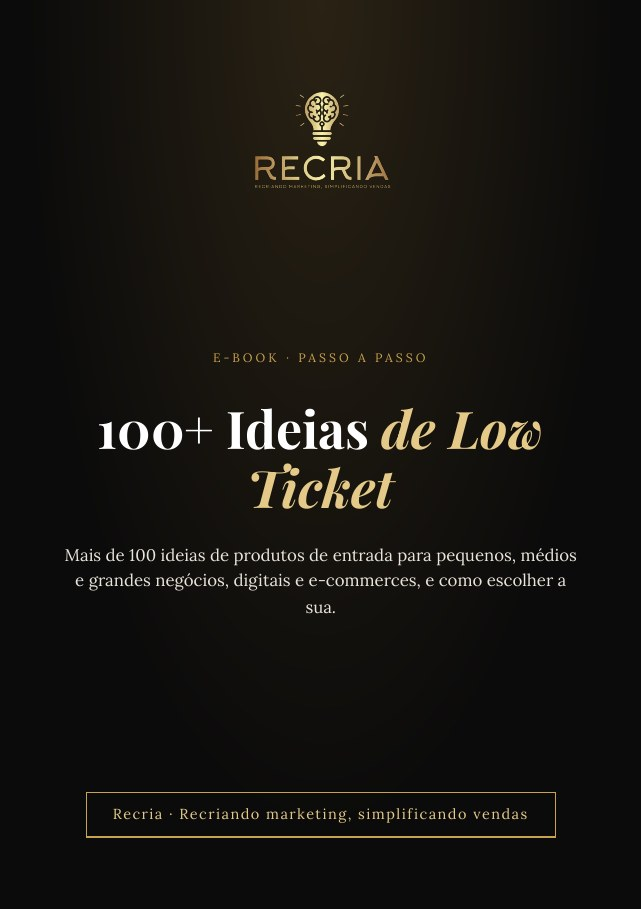
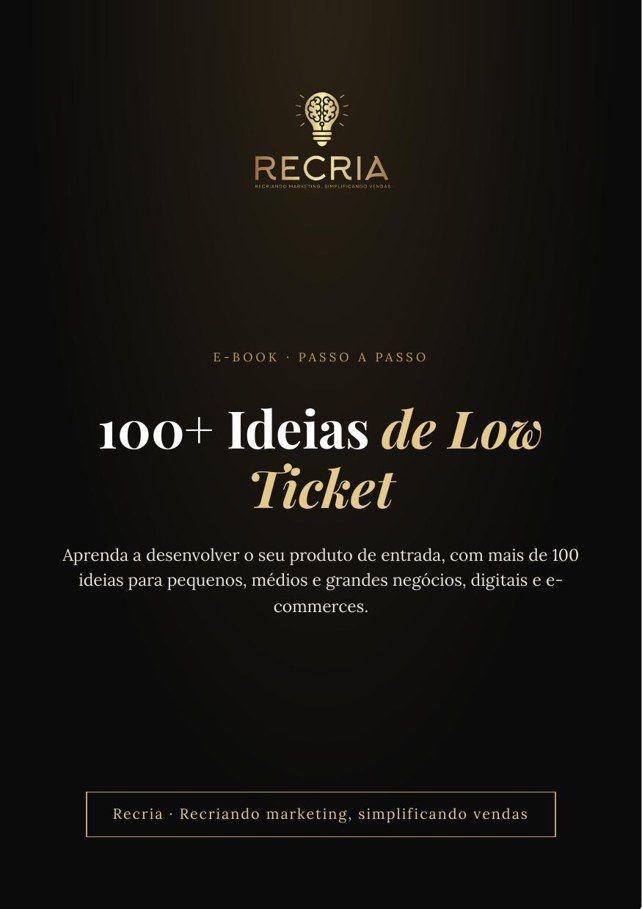
100+ Ideias de Low Ticket: nova capa, texto antes do prompt, Manual e Calendário no final, sem mentoria
Claude-Session: https://claude.ai/code/session_01DxpPKgzfVt8WYQSkZW1Msu

diff --git a/100-ideias-low-ticket/index.html b/100-ideias-low-ticket/index.html
@@ -3,10 +3,10 @@
 <meta charset="utf-8"><meta name="viewport" content="width=device-width,initial-scale=1">
 <meta name="robots" content="noindex">
 <title>Recria 100+ Ideias de Low Ticket · Agência Recria</title>
-<meta name="description" content="Mais de 100 ideias de produtos de entrada para pequenos, médios e grandes negócios, digitais e e-commerces, e como escolher a sua.">
+<meta name="description" content="Aprenda a desenvolver o seu produto de entrada, com mais de 100 ideias para pequenos, médios e grandes negócios, digitais e e-commerces.">
 <meta property="og:type" content="website">
 <meta property="og:title" content="Recria 100+ Ideias de Low Ticket">
-<meta property="og:description" content="Mais de 100 ideias de produtos de entrada para pequenos, médios e grandes negócios, digitais e e-commerces, e como escolher a sua.">
+<meta property="og:description" content="Aprenda a desenvolver o seu produto de entrada, com mais de 100 ideias para pequenos, médios e grandes negócios, digitais e e-commerces.">
 <meta property="og:url" content="https://www.agenciarecria.com.br/100-ideias-low-ticket/">
 <link rel="icon" href="../assets/icone.png" type="image/png">
 <link rel="preconnect" href="https://fonts.googleapis.com"><link rel="preconnect" href="https://fonts.gstatic.com" crossorigin>
@@ -31,7 +31,7 @@ fbq("init","2122997488598240");fbq("track","PageView");
 <img class="logo" src="../assets/logo.png" alt="Agência Recria">
 <div class="kick">E-book · Passo a passo</div>
 <h1>100+ Ideias <em>de Low Ticket</em></h1>
-<p class="sub">Mais de 100 ideias de produtos de entrada para pequenos, médios e grandes negócios, digitais e e-commerces, e como escolher a sua.</p>
+<p class="sub">Aprenda a desenvolver o seu produto de entrada, com mais de 100 ideias para pequenos, médios e grandes negócios, digitais e e-commerces.</p>
 <div class="capa-wrap"><img class="capa" src="capa.jpg" alt="Recria 100+ Ideias de Low Ticket"></div>
 <a class="btn" href="#oferta" data-checkout>Quero o guia</a>
 <p style="font-size:14px;color:#b8ad96;margin-top:14px">Acesso imediato · Garantia de 7 dias</p>
